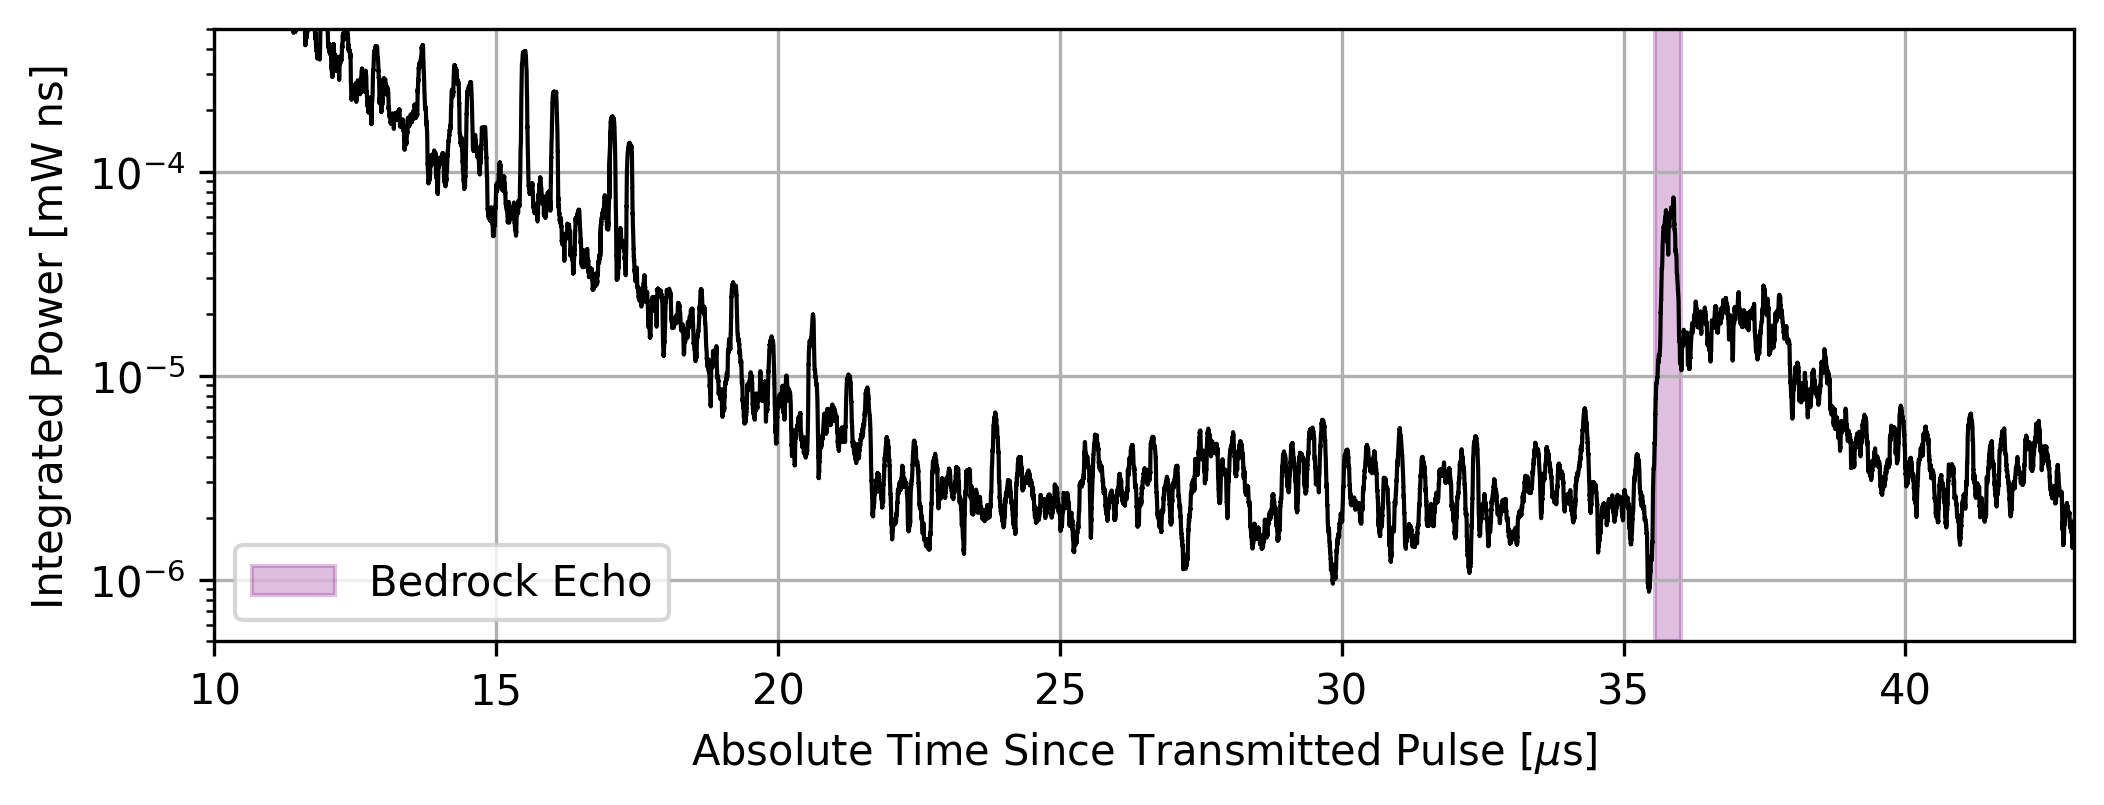
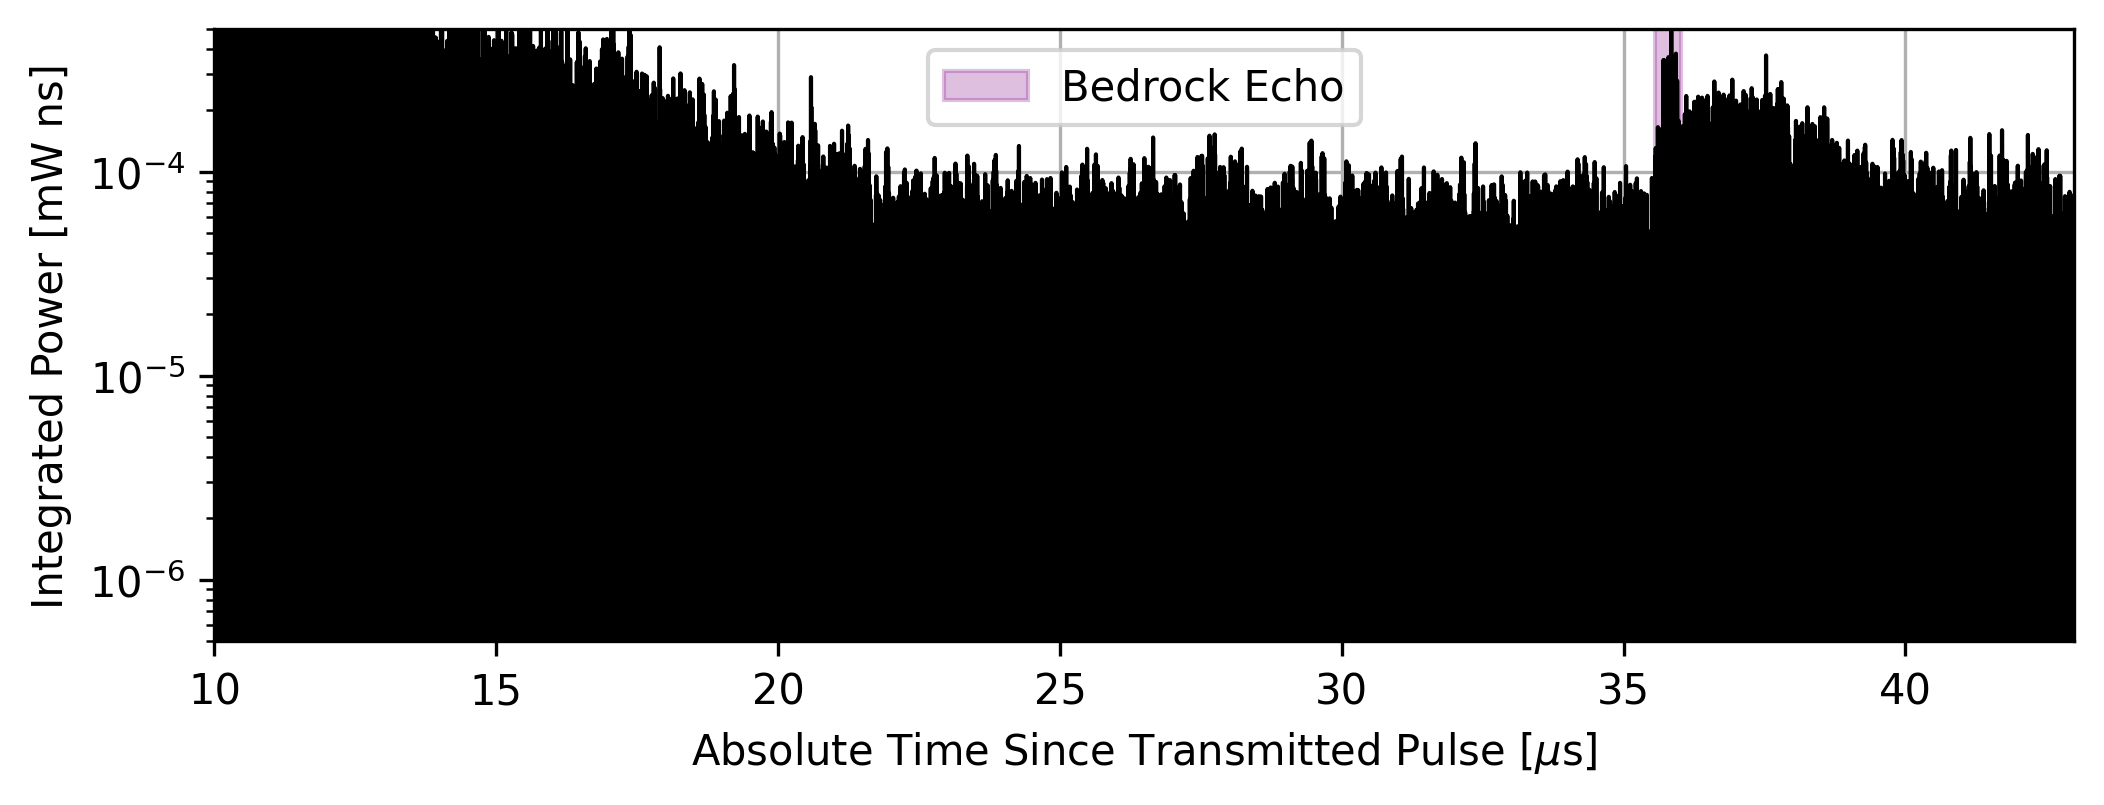
Adding an sliding integration function, and consolidating more hardcoded values.

diff --git a/A03_calc_uncertainty_depth.py b/A03_calc_uncertainty_depth.py
@@ -4,6 +4,7 @@ import numpy as np
 import matplotlib.pyplot as plt
 import scipy.signal
 import analysis_funcs
+import experiment
 
 
 def rho(z):
@@ -45,59 +46,48 @@ def get_average_n_of_top_1k():
 
 if __name__ == "__main__":
 
+    exper_constants = experiment.Experiment()
+
+    # Time corrections.
+    # I don't use the time offset as calculated in exper_constants
+    # because this is a different, more accurate experimental setup.    
     t0_from_data = 0.035e-6
     t_tx = 74.2e-9
     t_rx = 74.5e-9
     prop_time_delay = 8.0 / 3e8  # measured by eye
+    time_offset = prop_time_delay - t0_from_data - t_rx
 
     window_length = 250
 
     file_names = glob.glob("./data_processed/averaged_in_ice_trace_biref.npz")
-
-    # time corrections
-    time_offset = prop_time_delay - t0_from_data - t_rx
-
-    print(time_offset)
-    exit()
     
     data_t, data_trace = analysis_funcs.load_file(file_name=file_names[0],
                                                   att_correction=0,
                                                   time_offset=time_offset)
-                                   
+
+    data_t, rolling = analysis_funcs.power_integration(data_t, data_trace, window_length)
     
-    data_power_mW = np.power(data_trace * 1e3, 2.0) / 50.0
-    time_length = window_length * (data_t[1] - data_t[0]) * 1e9
-
-    window = scipy.signal.windows.tukey(window_length, alpha=0.25)
-
-    rolling = np.convolve(data_power_mW / time_length,
-                          window,
-                          'valid')
-
-    data_t = (data_t[(window_length - 1):] + data_t[:-(window_length - 1)]) / 2.0
-
     noise = rolling[np.logical_and(data_t > 25.0e-6, data_t < 32.0e-6)]
 
-    entries = np.sort(copy.deepcopy(np.abs(noise)))
-    cumsum = np.cumsum(np.ones(len(entries)))
-    cumsum = np.array(cumsum) / float(cumsum[-1])
+    entries, cumsum = analysis_funcs.calculate_uncertainty(np.abs(noise))
     threshold = entries[np.argmin(np.abs(cumsum - 0.95))]
 
     plt.figure()
     plt.semilogy(data_t * 1e6, rolling,
                  color='black', linewidth=1.0)
-    plt.axvline(35.57, color='purple', alpha=0.85, label="Arrival of Bedrock Echo")
+    plt.axvline(exper_constants.gb_start * 1e6, color='purple', alpha=0.85, label="Arrival of Bedrock Echo")
     plt.axhline(threshold, color='red', linestyle="--", label="95% CI of Noise")
 
     plt.grid()
     plt.title("Ice Echo Data From Bed Rock, Integrated in Sliding 100 ns Window \n From Birefringence Data Run")
     plt.xlabel(r"Absolute Time Since Pulser [$\mu$s]")
-    plt.ylabel("Integrated Power [mW / ns]")
+    plt.ylabel("Integrated Power [mW ns]")
     plt.xlim(33.0, 38.0)
-    plt.ylim(1e-6, 1e-3)
+    plt.ylim(1e-9, 1e-6)
 
     x_ticks = np.arange(33, 39, 1)
-    x_ticks = np.append(x_ticks, 35.57)
+    x_ticks = np.append(x_ticks,
+                        exper_constants.gb_start * 1e6)
     x_ticks = np.sort(x_ticks)
     x_tick_labels = [str(int(tick)) if int(tick) == tick else str(tick) for tick in x_ticks]
     plt.xticks(x_ticks, x_tick_labels)
@@ -115,8 +105,6 @@ if __name__ == "__main__":
     #######################################################################
 
     nthrows = 10000
-    gb_t0 = 35.55e-6
-    c = 3.0e8
 
     # get average index of refraction
     n_avg_top_1k = get_average_n_of_top_1k()
@@ -134,9 +122,9 @@ if __name__ == "__main__":
     depths = np.linspace(2600.0, 3400.0, 1000)
     for ithrow in np.arange(nthrows):
         n_with_uncertainty = np.random.normal(calculate_n(n_avg_top_1k, depths), 0.03)
-        times = (2.0 * depths) * (n_with_uncertainty / c)
+        times = (2.0 * depths) * (n_with_uncertainty / exper_constants.c)
         f = scipy.interpolate.interp1d(times, depths, kind='linear')
-        entries[ithrow] = f(gb_t0)
+        entries[ithrow] = f(exper_constants.gb_start)
 
     entries, cumsum = analysis_funcs.calculate_uncertainty(entries)
 

diff --git a/A03_calc_uncertainty_t0.py b/A03_calc_uncertainty_t0.py
@@ -6,20 +6,6 @@ import analysis_funcs
 import experiment
 
 
-def integrated_window(data_trace, data_t):
-    data_power_mW = np.power(data_trace * 1e3, 2.0) / 50.0
-    time_length = window_length * (data_t[1] - data_t[0]) * 1e9
-    window = scipy.signal.windows.tukey(window_length, alpha=0.25)
-
-    rolling = np.convolve(data_power_mW / time_length,
-                          window,
-                          'valid')
-
-    rolling_t = (data_t[(window_length - 1):] + data_t[:-(window_length - 1)]) / 2.0
-
-    return rolling_t, rolling
-
-
 if __name__ == "__main__":
 
     exper_constants = experiment.Experiment()    
@@ -69,7 +55,7 @@ if __name__ == "__main__":
     # Integrated Window #
     #####################
 
-    rolling_t, rolling = integrated_window(data_trace, data_t)
+    rolling_t, rolling = analysis_funcs.power_integration(data_t, data_trace, window_length)
 
     # Calculate a 95% CI of noise.
     noise = rolling[np.logical_and(rolling_t > exper_constants.noise_start,
@@ -95,9 +81,9 @@ if __name__ == "__main__":
                 linestyle="-.",
                 label="End of G.B.")
     plt.xlabel("Time Since Trigger $t_0$ [$\mu$s]")
-    plt.ylabel("Integrated Power [mW / ns]")
+    plt.ylabel("Integrated Power [mW ns]")
     plt.xlim(34.0, 39.0)
-    plt.ylim(4e-6, 4e-2)
+    plt.ylim(4e-9, 4e-5)
     plt.legend(loc='upper right')
     plt.grid()
 

diff --git a/analysis_funcs.py b/analysis_funcs.py
@@ -1,4 +1,5 @@
 import numpy as np
+import scipy.signal
 
 
 def load_file(file_name, att_correction=0, time_offset=0, return_fft=False):
@@ -33,6 +34,23 @@ def calculate_uncertainty(entries):
         cumsum = cumsum / float(cumsum[-1])
 
     return entries, cumsum
+
+
+def power_integration(time, trace, window_length):
+    
+    data_power_mW = np.power(trace, 2.0) / 50.0 * 1e3
+
+    time_length = window_length * (time[1] - time[0]) * 1e9
+
+    window = scipy.signal.windows.tukey(window_length, alpha=0.25)
+
+    rolling = np.convolve(data_power_mW / time_length,
+                          window,
+                          'valid')
+
+    time = (time[(window_length - 1):] + time[:-(window_length - 1)]) / 2.0
+    
+    return time, rolling
 
 
 def return_confidence_intervals(entries, cumsum):

diff --git a/A02_plot_averages.py b/A02_plot_averages.py
@@ -60,19 +60,8 @@ def load_and_plot_sliding_power(file_name, att_correction, title,
 
     plt.tight_layout()
 
-    data_power_mW = np.power(data_trace, 2.0) / 50.0 * 1e3
-    delta_t = (data_t[1] - data_t[0]) * 1e9
-    time_length = window_length * delta_t
-
-    rolling = np.convolve(data_power_mW * delta_t,
-                          np.ones(window_length),
-                          'valid')
-
-    # rolling is the integrated sliding window result and has units of mW * ns
-
-    data_t = (data_t[(window_length - 1):]
-              + data_t[:-(window_length - 1)]) / 2.0
-
+    data_t, rolling = analysis_funcs.power_integration(data_t, data_trace, window_length)
+        
     plt.title(title)
     plt.semilogy(data_t * 1e6, rolling,
                  alpha=1.0, color='black', linewidth=1.0)

diff --git a/A01_average_and_convert.py b/A01_average_and_convert.py
@@ -45,6 +45,16 @@ if(__name__ == "__main__"):
              template_trace=template_trace)
 
     ###########################################
+    # Data collected for Biref, unhealthy FID #
+    ###########################################
+
+    file_names = glob.glob("./data_raw/2021_08_09_biref_*/*_Ch1.csv")
+    template_time, template_trace = load_templates(file_names)
+    np.savez("./data_processed/averaged_in_ice_trace_biref",
+             template_time=template_time,
+             template_trace=template_trace)
+
+    ###########################################
     # Data collected with healthy FID, in air #
     ###########################################
 

diff --git a/A05_att_with_errors.py b/A05_att_with_errors.py
@@ -7,6 +7,7 @@ import matplotlib.pyplot as plt
 import analysis_funcs
 import experiment
 
+
 def prepare_ice_signal(t_gb, ice_time, ice_trace, master_time, Pxx_noise):
 
     t0, t1 = t_gb

diff --git a/README.md b/README.md
@@ -16,6 +16,7 @@ The data taken in the field is available from the RNO-G wiki. The three data sou
 * [In air data](https://radio.uchicago.edu/wiki/images/f/fd/Groundbounce_in_air_data_46dB_2021_08_02.zip)
 * [LPDA S11 Measurement](https://radio.uchicago.edu/wiki/images/2/28/LPDA_Summit_Measurements.zip)
 * [FID pulser output](https://radio.uchicago.edu/wiki/images/d/da/Groundbounce_fid_pulser_after_sick_72db.zip)
+* [Data for the Birefringence Setup](https://radio.uchicago.edu/wiki/images/5/5c/Biref_run1_0deg.zip)
 
 Simulations are also required. The simulations performed on xFDTD are not yet documented elsewhere so are included in this repository [here](data_simulated/lpda_xfdtd_sims/). The simulations performed in NuRadioMC are available [here for the in air simulation](http://arianna.ps.uci.edu/~arianna/data/AntennaModels/createLPDA_100MHz_InfAir/) and [here for the in ice simulation](http://arianna.ps.uci.edu/~arianna/data/AntennaModels/createLPDA_100MHz_InfFirn_n1.4/), and are documented [here](https://github.com/nu-radio/NuRadioReco/wiki/Antenna-models). 
 
@@ -28,6 +29,10 @@ For the conversion of bulk attenuation to attenuation at any given depth, the te
 The analysis code is roughly arranged in sequential scripts that prepare data (`A01`), plot results (`A02`), and calculate systematic uncertainties (`A03`) and biases (`A04`) before calculating the bulk attenuation (`A05`) and plotting the figures in the paper (`A06`). A description of each script is below.
 
 All scripts were built in Python 3.9.5.
+
+### experiment.py
+
+Class storing hardcoded numbers from the experiment, including the time of the ground bounce and uncertainties used in the attenuation measurement.
 
 ### A01_average_and_convert.py
 
@@ -81,3 +86,6 @@ Processes the output of `A05_att_with_errors.py` to create the attenuation Fig. 
 
 Converts the bulk attenuation into an attenuation as function of depth via the process described in the paper in the section named **Discussion and Summary** and in Eq. 8. Creates Fig. 8 from the paper, the attenuation vs. depth at 150 and 330 MHz.
 
+### analysis_funcs.py
+
+Collection of functions used in more than one analysis script. 
